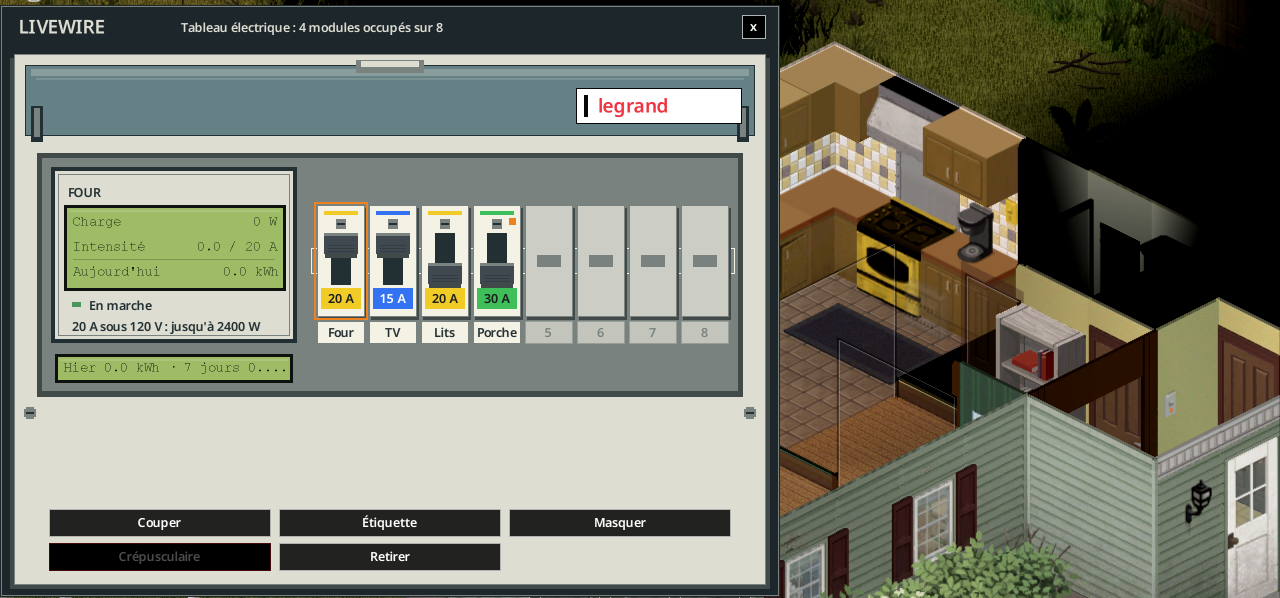
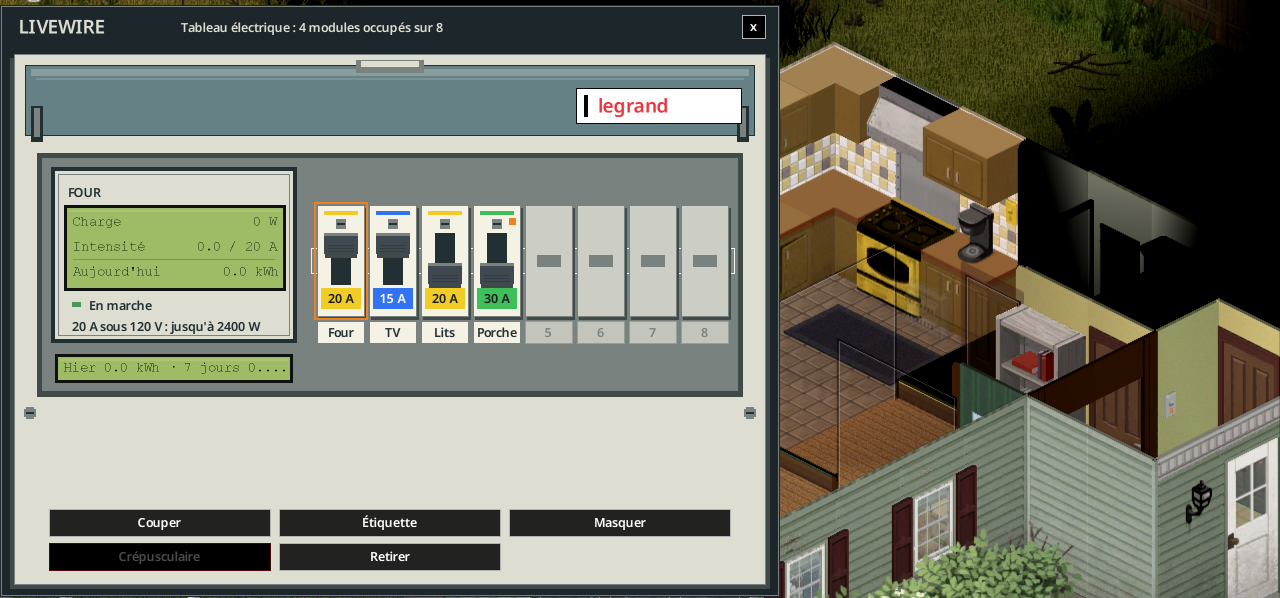
Show Locate in the LiveWire Extended wiki page
Insert the board-locate captures (taken again after the clearLocate fix,
both wiki runs at exit 0) under the Locate paragraph in English and
French, and record engine note 66 on removing a highlight with
setHighlighted(false, false).

diff --git a/docs/annexes/recherches/notes-moteur.md b/docs/annexes/recherches/notes-moteur.md
@@ -607,3 +607,10 @@ ils ne valident pas automatiquement l'ensemble des mécanismes décrits ici.
 - Mesure 5 (2026-11-11, MP serveur dédié + client, `runs/20261111-124849-mp-a88998fa36e0`) : un abri de 4 x 3 bâti côté serveur par le chemin d'une construction vanilla (`AddSpecialObject`, `RecalcAllWithNeighbours`, `transmitCompleteItemToClients`) est clos et couvert pour le serveur en moins d'une seconde ; le client reçoit murs et planchers mais ses données de région restent celles d'avant (`IsoRegions.getSquareFlags` : sol seul) pendant 45 s. Après reconnexion du client (nouveau processus), les régions sont justes (`enclosed=true roofed=true`). Conséquence : en MP, une décision prise côté client sur une construction de joueur toute neuve peut être fausse jusqu'à la reconnexion ; l'autorité, elle, est juste.
 - Mesure 6 (2026-11-11, solo, `runs/20261111-125155-sp-83e288627037`) : `industry_02_212` à `215` ne sont pas déplaçables au curseur de meubles (`isMoveable` faux).
 - Mesure 7 (2026-11-11) : `industry_02_180` à `183` sont le même coffret, dessiné plus bas sur son mur (images de `Tiles2x.pack` comparées ; mêmes propriétés `attachedN/W/S/E`, aucun nom). Ils ne sont pas déplaçables non plus. `176` à `179` sont des rangées de compteurs, pas des tableaux. Preuve : `pzdev sp LiveWire/autotest/site42.json` → code 0, `runs/20261111-163042-sp-a791f1941e9c`.
+
+## 66. Retirer un surlignage : `setHighlighted(false)` le marque « une seule image » pour tous les joueurs
+- Build : 42.22 — Date : 2026-11-11 — Statut : confirmé statiquement ; confirmé en jeu en solo
+- Mesure 1 : `IsoObject:setHighlighted(boolean)` appelle `setHighlighted(highlight, true)`, qui met le drapeau render-once des quatre joueurs (`IsoObject.java:4680-4686`). `setHighlighted(playerIndex, true, false)` ne retire ensuite ce drapeau que pour ce joueur.
+- Mesure 2 : à chaque image, le moteur éteint tout objet dont le drapeau render-once d'un joueur quelconque est encore levé sans rendu en attente (`FBORenderObjectHighlight.java:155-163`, test `isHighlightRenderOnce()` sans indice de joueur).
+- Preuve en jeu : drapeaux relevés sur une cuisinière (après `setHighlighted(false)` : `false/true` pour les 4 joueurs ; après `setHighlighted(0, true, false)` : joueur 0 surligné, joueurs 1 à 3 encore render-once ; l'image suivante, plus de surlignage). Après correction, scénario `wiki_shots_ext.json` → code 0, `summary=LiveWire wiki screenshots ext en`, `runs/20261111-192357-sp-5c1ff230285a` (FR : `runs/20261111-192506-sp-eba03e9194eb`) : teinte du tableau revenue après « Masquer ».
+- Conséquence : pour retirer un surlignage posé avec `renderOnce = false`, appeler `setHighlighted(false, false)` ; sinon le drapeau render-once de tous les joueurs éteint un surlignage reposé ensuite par joueur (`LWX_BoardWindow.lua`, `Window:clearLocate`).

diff --git a/docs/wiki/fr/14-livewire-extended.md b/docs/wiki/fr/14-livewire-extended.md
@@ -137,6 +137,10 @@ Si vous êtes déjà à portée du tableau, la manœuvre se fait immédiatement.
 
 **Localiser** allume les appareils de ce disjoncteur ; **Masquer** éteint ce repère.
 
+![Localiser sur le disjoncteur Four](../../images/screenshots/board-locate-fr.png)
+
+*Localiser sur le disjoncteur Four : la cuisinière s'allume en doré ; le bouton affiche maintenant Masquer.*
+
 ![Fenêtre du tableau électrique](../../images/screenshots/board-window-fr.png)
 
 *La fenêtre du tableau : quatre disjoncteurs étiquetés ; le disjoncteur Porche sélectionné passe par un interrupteur crépusculaire (nuit seulement).*

diff --git a/docs/wiki/en/14-livewire-extended.md b/docs/wiki/en/14-livewire-extended.md
@@ -137,6 +137,10 @@ If you already stand in reach of the board, the switch happens at once. A breake
 
 **Locate** lights up the appliances of that breaker; **Hide** turns the light off.
 
+![Locate on the Oven breaker](../../images/screenshots/board-locate-en.png)
+
+*Locate on the Oven breaker: the oven lights up in gold; the button now reads Hide.*
+
 ![Breaker board window](../../images/screenshots/board-window-en.png)
 
 *The board window: four labelled breakers; the selected Porch breaker runs on a twilight switch (night only).*
